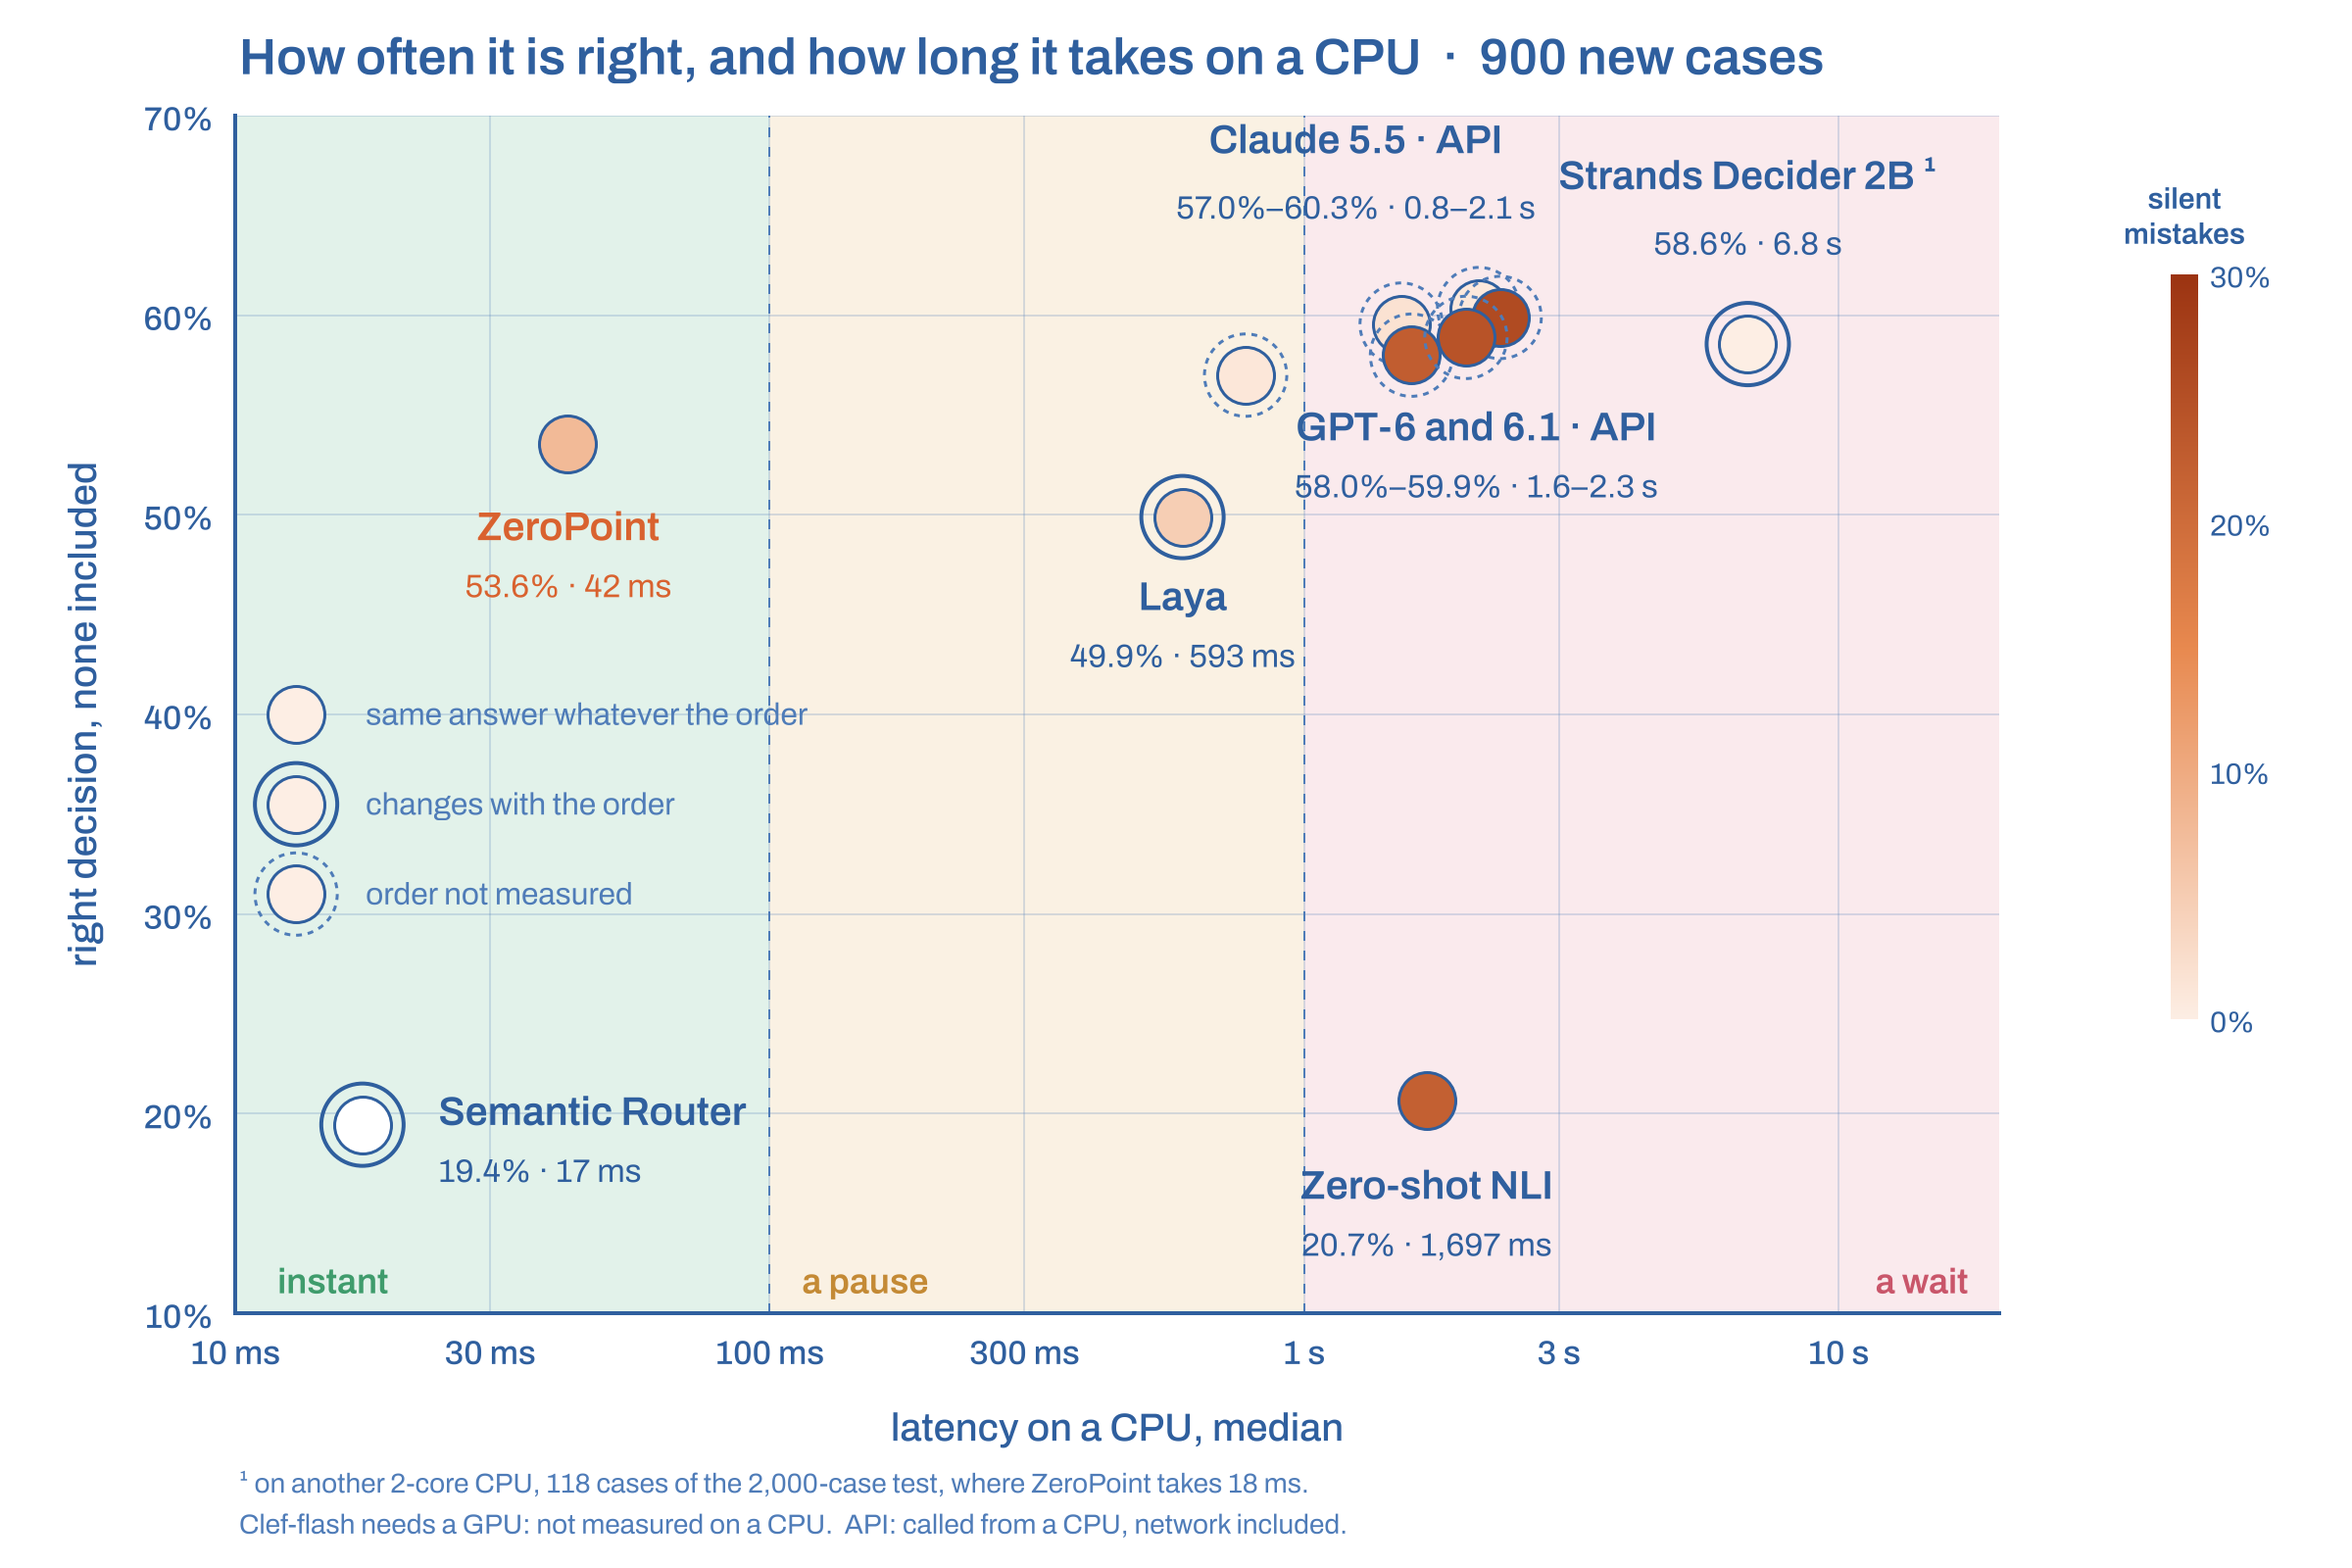
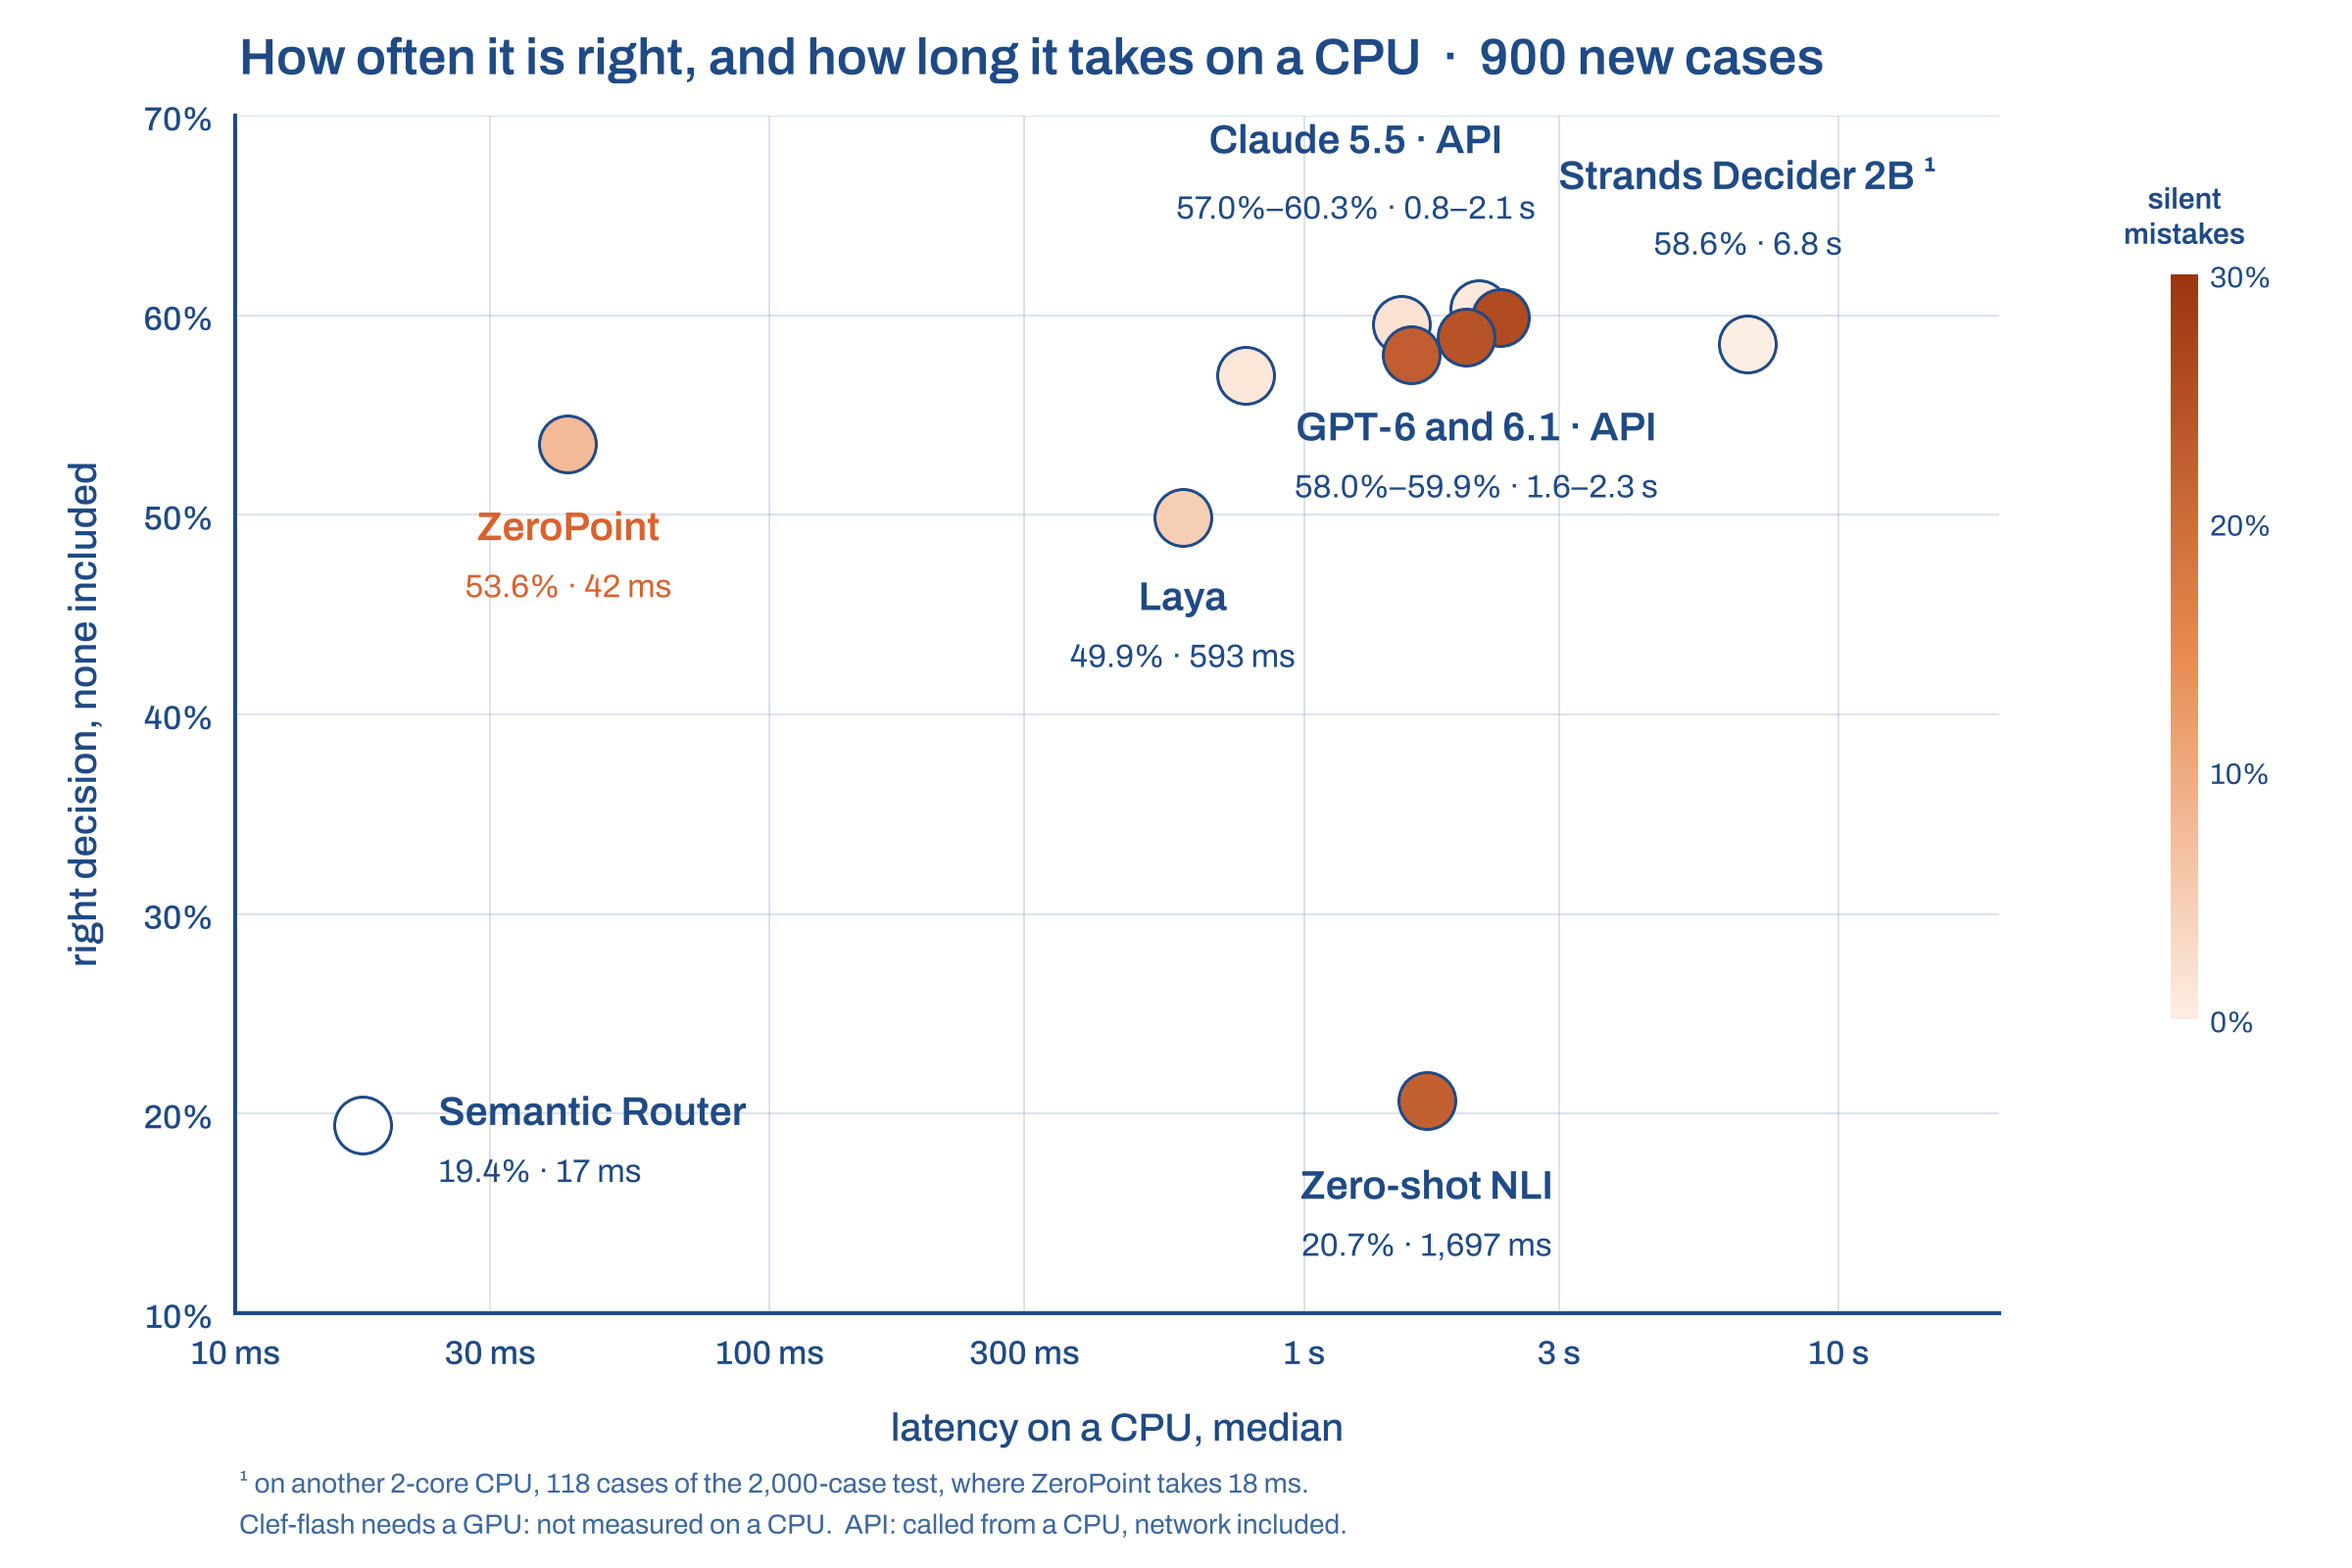
Chart: two axes and one colour scale on white; no zones, rings or legend
Claude-Session: https://claude.ai/code/session_01G8ANiDeU2TrS1f1cqs11jg

diff --git a/benchmarks/compare/chart.py b/benchmarks/compare/chart.py
@@ -2,16 +2,15 @@
 
     python chart.py                      # reads results/summary.json, writes ../../assets/decision-models-chart.png
 
-Drawn in the format of the earlier ZeroPoint charts: 2400 x 1600 px, transparent background, Archivo (OFL, in
-fonts/), the same zones and marker sizes. Every value comes from results/summary.json, written by
+Drawn in the format of the earlier ZeroPoint charts: 2400 x 1600 px, Archivo (OFL, in fonts/), the same marker
+sizes; white background, two axes and one colour scale. Every value comes from results/summary.json, written by
 report.py; nothing is typed in by hand.
 
   x       median latency on a CPU (log scale); the LLMs are called from a CPU, network included; Strands Decider
           from cpu_latency.py; Clef-flash needs a GPU and is left out
   y       right decision, none included, on the 900 cases
-  fill    silent mistakes: an option picked with probability 0.9 or more when none is right (white: no
+  colour  silent mistakes: an option picked with probability 0.9 or more when none is right (white: no
           probabilities)
-  ring    a second ring: the answer changes when the same options come in another order; dashed: not measured
 """
 
 import json
@@ -22,7 +21,6 @@ matplotlib.use("Agg")
 import matplotlib.pyplot as plt
 from matplotlib import font_manager as fm
 from matplotlib.colors import LinearSegmentedColormap
-from matplotlib.patches import Rectangle
 
 HERE = os.path.dirname(os.path.abspath(__file__))
 for w in ["400Regular", "500Medium", "600SemiBold"]:
@@ -33,10 +31,7 @@ plt.rcParams.update({"font.family": "Archivo"})
 
 DPI = 120
 px = lambda v: v * 72 / DPI                         # size in pixels -> points
-BLUE, LINE, ORANGE, LIGHT = "#2f5f9e", "#4f7cb8", "#d9622f", "#a9c1e0"
-ZONE_GREEN, ZONE_AMBER, ZONE_RED = (75 / 255, 174 / 255, 124 / 255, 0.16), (224 / 255, 168 / 255, 81 / 255, 0.16), \
-    (214 / 255, 82 / 255, 107 / 255, 0.12)
-TXT_GREEN, TXT_AMBER, TXT_RED = "#3f9c6c", "#c48a35", "#c9566a"
+BLUE, LINE, ORANGE, LIGHT = "#1f4a85", "#3d679f", "#d9622f", "#a9c1e0"
 BIG = px(58) ** 2
 SILENT = LinearSegmentedColormap.from_list("silent", ["#fdeee4", "#e8894f", "#9c3412"])
 SILENT_MAX = 0.30
@@ -57,29 +52,15 @@ def main(summary_path=os.path.join(HERE, "results", "summary.json"),
          out_path=os.path.join(HERE, "..", "..", "assets", "decision-models-chart.png")):
     S = json.load(open(summary_path, encoding="utf-8"))
     C = S["llm_comparison"]["systems"]
-    tests = S["llm_comparison"]["tests"]
-
-    def order(s):
-        v = [S["systems"][s]["tests"].get(t, {}).get("order_changed") for t in tests]
-        return None if any(x is None for x in v) else sum(v) / len(v)
 
     fig = plt.figure(figsize=(2400 / DPI, 1600 / DPI), dpi=DPI)
     ax = fig.add_axes([240 / 2400, 260 / 1600, 1800 / 2400, 1222 / 1600])
     ax.set_xscale("log")
     ax.set_xlim(10, 20000)
     ax.set_ylim(0.1, 0.7)
-    ax.patch.set_alpha(0)
+    ax.set_facecolor("white")
 
-    # human response-time limits: under 0.1 s feels instant, under 1 s keeps the flow, over 1 s is a wait
-    ax.add_patch(Rectangle((10, 0.1), 90, 0.6, color=ZONE_GREEN, lw=0, zorder=0))
-    ax.add_patch(Rectangle((100, 0.1), 900, 0.6, color=ZONE_AMBER, lw=0, zorder=0))
-    ax.add_patch(Rectangle((1000, 0.1), 19000, 0.6, color=ZONE_RED, lw=0, zorder=0))
-    ax.grid(color=LINE, alpha=0.22, lw=px(2), zorder=0.5)
-    for x in (100, 1000):
-        ax.axvline(x, color=LINE, lw=px(2), dashes=(5, 5), zorder=1)
-    ax.text(12, 0.11, "instant", fontsize=px(36), color=TXT_GREEN, weight="semibold")
-    ax.text(115, 0.11, "a pause", fontsize=px(36), color=TXT_AMBER, weight="semibold")
-    ax.text(17500, 0.11, "a wait", fontsize=px(36), color=TXT_RED, weight="semibold", ha="right")
+    ax.grid(color=LINE, alpha=0.18, lw=px(2), zorder=0.5)
 
     for s in ("top", "right"):
         ax.spines[s].set_visible(False)
@@ -100,21 +81,9 @@ def main(summary_path=os.path.join(HERE, "results", "summary.json"),
     fig.text(244 / 2400, 1 - 30 / 1600, "How often it is right, and how long it takes on a CPU  ·  900 new cases",
              fontsize=px(52), color=BLUE, weight="semibold", va="top")
 
-    def dot(x, y, silent, ring, zorder=4):
+    def dot(x, y, silent, zorder=4):
         fill = "white" if silent is None else SILENT(min(silent, SILENT_MAX) / SILENT_MAX)
         ax.scatter([x], [y], s=BIG, color=fill, edgecolor=BLUE, lw=px(3), zorder=zorder)
-        if ring == "changes":
-            ax.scatter([x], [y], s=(px(58) + px(26)) ** 2, facecolor="none", edgecolor=BLUE, lw=px(4),
-                       zorder=zorder)
-        elif ring == "not measured":
-            ax.scatter([x], [y], s=(px(58) + px(26)) ** 2, facecolor="none", edgecolor=LINE, lw=px(3),
-                       linestyle=(0, (2, 2)), zorder=zorder)
-
-    def ring_of(s):
-        if s.startswith("llm_"):
-            return "not measured"
-        o = order(s)
-        return "changes" if o and o > 0 else None
 
     def label(key, sub, color=BLUE):
         text, (lx, ly), ha, va = LABELS[key]
@@ -129,27 +98,27 @@ def main(summary_path=os.path.join(HERE, "results", "summary.json"),
     pct = lambda v: f"{100 * v:.1f}%"
     for s in ["zeropoint", "laya_none", "semantic_router", "nli"]:
         r = C[s]
-        dot(r["ms_median"], r["right"], r["silent"], ring_of(s))
+        dot(r["ms_median"], r["right"], r["silent"])
         sub = f"{pct(r['right'])} · {r['ms_median']:,.0f} ms"
         label(s, sub, ORANGE if s == "zeropoint" else BLUE)
 
     st = C["strands_none"]
     cpu = S.get("cpu_latency", {}).get("strands_none", {}).get("median")
     if cpu:
-        dot(cpu, st["right"], st["silent"], ring_of("strands_none"))
+        dot(cpu, st["right"], st["silent"])
         label("strands_cpu", f"{pct(st['right'])} · {cpu / 1000:.1f} s")
 
     for group, key in [("llm_claude", "claude"), ("llm_gpt", "gpt")]:
         members = [s for s in C if s.startswith(group)]
         for s in members:
-            dot(C[s]["ms_median"], C[s]["right"], C[s]["silent"], ring_of(s))
+            dot(C[s]["ms_median"], C[s]["right"], C[s]["silent"])
         lo = min(C[s]["right"] for s in members)
         hi = max(C[s]["right"] for s in members)
         t0 = min(C[s]["ms_median"] for s in members)
         t1 = max(C[s]["ms_median"] for s in members)
         label(key, f"{pct(lo)}–{pct(hi)} · {t0 / 1000:.1f}–{t1 / 1000:.1f} s")
 
-    # legend: fill = silent mistakes, rings = order
+    # colour scale: silent mistakes
     cax = fig.add_axes([2215 / 2400, 560 / 1600, 28 / 2400, 760 / 1600])
     grad = [[i / 255] for i in range(256)]
     cax.imshow(grad, aspect="auto", cmap=SILENT, origin="lower", extent=(0, 1, 0, SILENT_MAX))
@@ -163,21 +132,13 @@ def main(summary_path=os.path.join(HERE, "results", "summary.json"),
     fig.text(2229 / 2400, (560 + 760 + 24) / 1600, "silent\nmistakes", fontsize=px(30), color=BLUE,
              weight="semibold", ha="center", va="bottom", linespacing=1.1)
 
-    lx, ly = 13, 0.40
-    dot(lx, ly, 0.0, None, zorder=6)
-    ax.text(lx * 1.35, ly, "same answer whatever the order", fontsize=px(31.6), color=LINE, va="center", zorder=6)
-    dot(lx, ly - 0.045, 0.0, "changes", zorder=6)
-    ax.text(lx * 1.35, ly - 0.045, "changes with the order", fontsize=px(31.6), color=LINE, va="center", zorder=6)
-    dot(lx, ly - 0.09, 0.0, "not measured", zorder=6)
-    ax.text(lx * 1.35, ly - 0.09, "order not measured", fontsize=px(31.6), color=LINE, va="center", zorder=6)
-
     L = S.get("cpu_latency", {})
     zp_same = L.get("zeropoint", {}).get("median")
     note = ("¹ " + f"on another 2-core CPU, {L.get('cases', 0)} cases of the 2,000-case test, where ZeroPoint takes "
             f"{zp_same:.0f} ms" if zp_same else "")
     fig.text(244 / 2400, 22 / 1600, note + ".\nClef-flash needs a GPU: not measured on a CPU.  API: called from a "
              "CPU, network included.", fontsize=px(28), color=LINE, va="bottom", linespacing=1.4)
-    fig.savefig(out_path, dpi=DPI, transparent=True)
+    fig.savefig(out_path, dpi=DPI, facecolor="white")
 
 
 if __name__ == "__main__":
